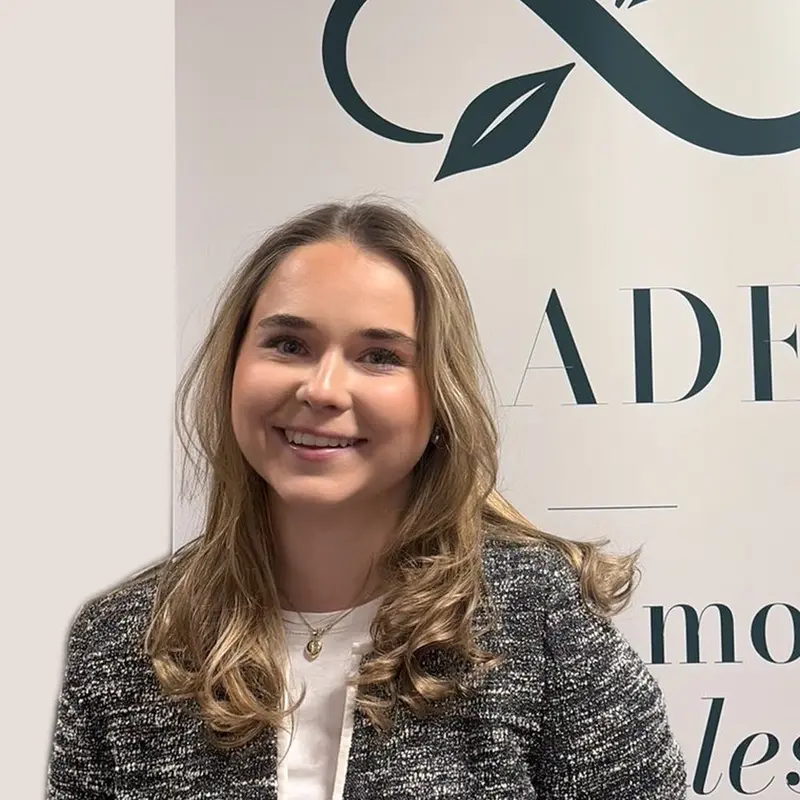
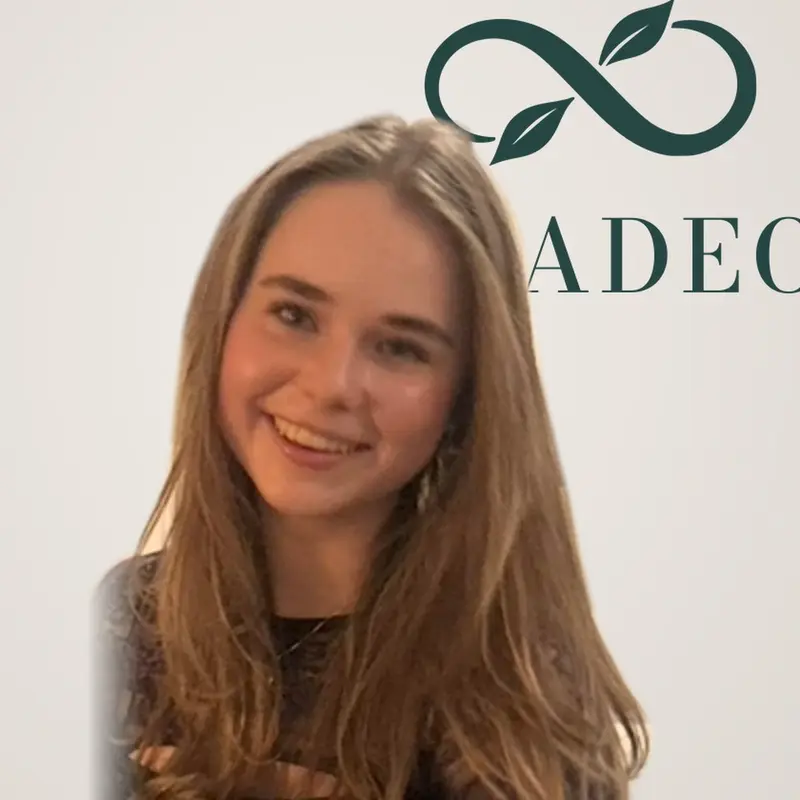
Nytt profilbilde av Åsne, fjernet KI-setning fra profilen hennes

diff --git a/en/index.html b/en/index.html
@@ -572,7 +572,7 @@ footer{padding-block:8px 40px;color:var(--muted);font-size:14px}
     </div>
   </div>
   <div class="profile-body">
-    <div><h2>Background</h2><p>From Bærum, where she took the sports programme at Nadderud upper secondary school. Studies entrepreneurship and business development. Creative, with a strong interest in fashion, reuse and redesign, and already had her own YouTube channel about redesigning old clothes in primary school. Very interested in artificial intelligence and uses AI actively in building Tradeo.</p></div>
+    <div><h2>Background</h2><p>From Bærum, where she took the sports programme at Nadderud upper secondary school. Studies entrepreneurship and business development. Creative, with a strong interest in fashion, reuse and redesign, and already had her own YouTube channel about redesigning old clothes in primary school.</p></div>
     <div><h2>Experience</h2><p>At 16, won an entrepreneurship competition run by DNB with the app idea “Ditt Neste Bytte” (Your Next Swap), the idea Tradeo builds on. Started a small business with a friend in lower secondary school, and was part of the costume team for the school revue, which got a top review in Aftenposten. Works in a café today and has previously worked at Build-A-Bear and Ringo in customer service and sales.</p></div>
   </div>
   <!-- Flere bilder: legg inn <img src="bilder/aasne-1.jpg" alt="..."> her, så dukker galleriet opp av seg selv -->

diff --git a/index.html b/index.html
@@ -572,7 +572,7 @@ footer{padding-block:8px 40px;color:var(--muted);font-size:14px}
     </div>
   </div>
   <div class="profile-body">
-    <div><h2>Bakgrunn</h2><p>Fra Bærum og gikk idrettslinjen på Nadderud videregående skole. Studerer entreprenørskap og forretningsutvikling. Kreativ, med stor interesse for mote, gjenbruk og redesign, og hadde allerede på barneskolen en egen YouTube-kanal om å redesigne gamle klær. Er svært opptatt av kunstig intelligens og bruker KI aktivt i utviklingen av Tradeo.</p></div>
+    <div><h2>Bakgrunn</h2><p>Fra Bærum og gikk idrettslinjen på Nadderud videregående skole. Studerer entreprenørskap og forretningsutvikling. Kreativ, med stor interesse for mote, gjenbruk og redesign, og hadde allerede på barneskolen en egen YouTube-kanal om å redesigne gamle klær.</p></div>
     <div><h2>Tidligere erfaring</h2><p>Vant som 16-åring en entreprenørskapskonkurranse arrangert av DNB med appideen «Ditt Neste Bytte», ideen Tradeo bygger videre på. Startet egen småbedrift sammen med en venninne på ungdomsskolen, og var med i kostymegruppen til skolerevyen, som fikk terningkast 6 i Aftenposten. Jobber i dag på kafé og har tidligere jobbet hos Build-A-Bear og Ringo, med kundeservice og salg.</p></div>
   </div>
   <!-- Flere bilder: legg inn <img src="bilder/aasne-1.jpg" alt="..."> her, så dukker galleriet opp av seg selv -->
